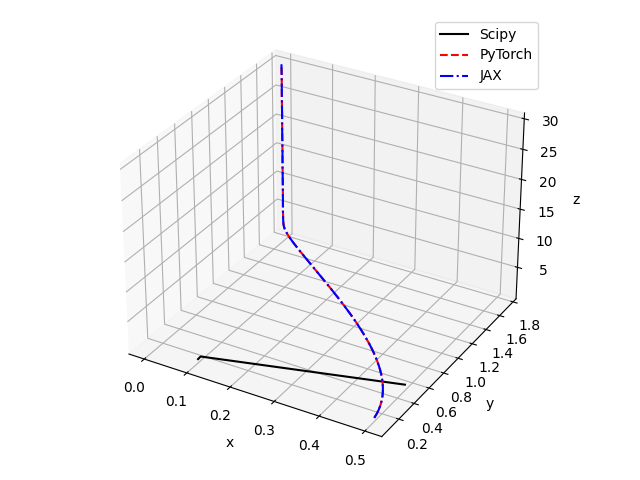
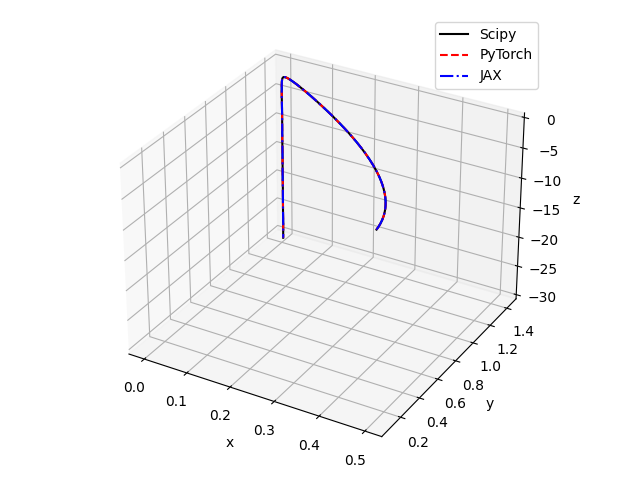
Now creating more figures from the guiding center

diff --git a/main_odes.py b/main_odes.py
@@ -6,7 +6,7 @@ import matplotlib.pyplot as plt
 from solver import solve_with_scipy, solve_with_pytorch, solve_with_jax
 from jacobi import compute_jacobian_scipy, compute_jacobian_torch, compute_jacobian_jax
 from differences import compute_diff
-from params_and_model import initial_conditions, tmin, tmax, nt, a_initial, model
+from params_and_model import initial_conditions, tmin, tmax, nt, a_initial, model, iota, vpar_sign, Lambda
 # import torch
 # torch.set_default_dtype(torch.float64)
 from jax.config import config
@@ -32,21 +32,19 @@ def main(results_path='results'):
 
     t = np.linspace(tmin, tmax, nt)
 
-    plt.figure()
-    for w_i, label, ls in zip(w, labels, label_styles):
-        for i, func in enumerate(functions):
-            if label == 'Scipy':
-                plt.plot(t, w_i[:, i], ls[0], label=f'{label} {func}')
-            elif label == 'PyTorch':
+    for i, func in enumerate(functions):
+        plt.figure()
+        for w_i, label, ls in zip(w, labels, label_styles):
+            if label == 'PyTorch':
                 plt.plot(t, w_i[:, i].detach().numpy(), ls[0], label=f'{label} {func}')
             else:
                 plt.plot(t, w_i[:, i], ls[0], label=f'{label} {func}')
-    plt.xlabel('Time')
-    plt.ylabel('Solution Value')
-    plt.title('ODE Solutions')
-    plt.legend()
-    plt.tight_layout()
-    plt.savefig(os.path.join(results_path, f'initial_solution_timetrace_{model}.png'))
+        plt.xlabel('Time')
+        plt.ylabel(f'{func}')
+        plt.title('ODE Solutions')
+        plt.legend()
+        plt.tight_layout()
+        plt.savefig(os.path.join(results_path, f'initial_solution_timetrace_{model}_{func}.png'))
 
     plt.figure()
     for Jacobian_i, label, ls in zip(Jacobian, labels, label_styles):
@@ -69,20 +67,75 @@ def main(results_path='results'):
     plt.savefig(os.path.join(results_path, f'time_solveJacobian_{model}.png'))
 
     fig = plt.figure()
-    ax = fig.add_subplot(111, projection='3d')
-    for w_i, label, ls in zip(w, labels, label_styles):
-        if label == 'Scipy':
-            ax.plot(w_i[0], w_i[1], w_i[2], ls[0], label=f'{label}')
-        elif label == 'PyTorch':
-            ax.plot(w_i[:, 0].detach().numpy(), w_i[:, 1].detach().numpy(), w_i[:, 2].detach().numpy(), ls[0], label=f'{label}')
-        else:
-            ax.plot(w_i[:, 0], w_i[:, 1], w_i[:, 2], ls[0], label=f'{label}')
-    ax.set_xlabel(variables[0])
-    ax.set_ylabel(variables[1])
-    ax.set_zlabel(variables[2])
-    plt.legend()
-    plt.tight_layout()
-    plt.savefig(os.path.join(results_path, f'initial_solution_3D_{model}.png'))
+    if model == 'lorenz':
+        ax = fig.add_subplot(111, projection='3d')
+        for w_i, label, ls in zip(w, labels, label_styles):
+            if label == 'PyTorch':
+                ax.plot(w_i[:, 0].detach().numpy(), w_i[:, 1].detach().numpy(), w_i[:, 2].detach().numpy(), ls[0], label=f'{label}')
+            else:
+                ax.plot(w_i[:, 0], w_i[:, 1], w_i[:, 2], ls[0], label=f'{label}')
+        ax.set_xlabel(variables[0])
+        ax.set_ylabel(variables[1])
+        ax.set_zlabel(variables[2])
+        plt.legend()
+        plt.tight_layout()
+        plt.savefig(os.path.join(results_path, f'initial_solution_3D_{model}.png'))
+    elif model == 'guiding-center':
+        plt.figure()
+        for w_i, label, ls in zip(w, labels, label_styles):
+            if label == 'PyTorch':
+                alpha = w_i[:, 1].detach().numpy()-iota*w_i[:, 2].detach().numpy()
+                x = w_i[:, 0].detach().numpy()
+            else:
+                alpha = w_i[:, 1]-iota*w_i[:, 2]
+                x = w_i[:, 0]
+            plt.plot(np.sqrt(x)*np.cos(alpha), np.sqrt(x)*np.sin(alpha), ls[0], label=f'{label} {func}')
+        plt.xlabel(f'sqrt(psi)*cos(alpha)')
+        plt.ylabel(f'sqrt(psi)*sin(alpha)')
+        plt.title('ODE Solutions')
+        plt.legend()
+        plt.tight_layout()
+        plt.savefig(os.path.join(results_path, f'initial_solution_2D_{model}.png'))
+
+        plt.figure()
+        for w_i, label, ls in zip(w, labels, label_styles):
+            if label == 'PyTorch':
+                x = w_i[:, 0].detach().numpy()
+                y = w_i[:, 1].detach().numpy()
+                z = w_i[:, 2].detach().numpy()
+            else:
+                x = w_i[:, 0]
+                y = w_i[:, 1]
+                z = w_i[:, 2]
+            B_val = a_initial[0] + a_initial[1] * np.sqrt(x) * np.cos(y) + a_initial[2] * np.sin(z)
+            v_parallel = vpar_sign*np.sqrt(1-Lambda*B_val)
+            plt.plot(t, v_parallel, ls[0], label=f'{label} {func}')
+        plt.xlabel('Time')
+        plt.ylabel(f'v_parallel')
+        plt.title('ODE Solutions')
+        plt.legend()
+        plt.tight_layout()
+        plt.savefig(os.path.join(results_path, f'initial_solution_vparallel_{model}.png'))
+
+        plt.figure()
+        for w_i, label, ls in zip(w, labels, label_styles):
+            if label == 'PyTorch':
+                x = w_i[:, 0].detach().numpy()
+                y = w_i[:, 1].detach().numpy()
+                z = w_i[:, 2].detach().numpy()
+            else:
+                x = w_i[:, 0]
+                y = w_i[:, 1]
+                z = w_i[:, 2]
+            B_val = a_initial[0] + a_initial[1] * np.sqrt(x) * np.cos(y) + a_initial[2] * np.sin(z)
+            plt.plot(t, B_val, ls[0], label=f'{label} {func}')
+        plt.xlabel('Time')
+        plt.ylabel(f'B')
+        plt.title('ODE Solutions')
+        plt.legend()
+        plt.tight_layout()
+        plt.savefig(os.path.join(results_path, f'initial_solution_B_{model}.png'))
+
 
     print(f'All plots saved to results folder {results_path}.')
 

diff --git a/params_and_model.py b/params_and_model.py
@@ -18,10 +18,14 @@ if model == 'lorenz':
     learning_rate_torch = 1.1
     learning_rate_jax = 0.2
 elif model == 'guiding-center':
-    initial_conditions = [0.5, 0.1, 0.1]
-    a_initial = [1.0, 0.1, 0.01]  # B0, B1c, alpha
+    initial_conditions = [0.7, 0.1, 0.1]
+    a_initial = [1.0, 0.2, 0.01]  # B0, B1c, B01s
+    vpar_sign = 1
+    Lambda = 0.8
+    iota = 0.41
+    G = 2*np.pi
     tmin = 0
-    tmax = 200
+    tmax = 20
     nt_per_time_unit = 10
     n_steps_to_compute_loss = 30
     x_target = initial_conditions[0]
@@ -43,22 +47,18 @@ n_steps_to_compute_loss = np.min([n_steps_to_compute_loss, nt])
 if model == 'guiding-center':
     ## Guiding-center equations for x=psi, y=theta, z=phi
     # Define the system of equations
-    Lambda = 0.1
-    iota = 0.41
-    G = 2*np.pi
     def B(a, x, y, z):
-        return a[0] + a[1] * x * jnp.cos(y) + a[2] * jnp.sin(z)
+        return a[0] + a[1] * jnp.sqrt(x) * jnp.cos(y) + a[2] * jnp.sin(z)
     
     def dBdx(a, x, y, z):
-        return a[1] * jnp.cos(y)
+        return a[1] * jnp.cos(y) / (2 * jnp.sqrt(x))
     
     def dBdy(a, x, y, z):
-        return -a[1] * x * jnp.sin(y)
+        return -a[1] * jnp.sqrt(x) * jnp.sin(y)
 
     def system(w, t, a):
         x, y, z = w
 
-        vpar_sign = 1
         B_val = B(a, x, y, z)
         dBdx_val = dBdx(a,x,y,z)
         dBdy_val = dBdy(a,x,y,z)
@@ -77,10 +77,9 @@ if model == 'guiding-center':
         def forward(self, t, w):
             x, y, z = w[..., 0], w[..., 1], w[..., 2]
             
-            vpar_sign = 1
-            B_val = self.a[0] + self.a[1] * x * torch.cos(y) + self.a[2] * torch.sin(z)
-            dBdx_val = self.a[1] * torch.cos(y)
-            dBdy_val = -self.a[1] * x * torch.sin(y)
+            B_val = self.a[0] + self.a[1] * torch.sqrt(x) * torch.cos(y) + self.a[2] * torch.sin(z)
+            dBdx_val = self.a[1] * torch.cos(y) / (2 * torch.sqrt(x))
+            dBdy_val = -self.a[1] * torch.sqrt(x) * torch.sin(y)
 
             v_parallel = vpar_sign*torch.sqrt(1-Lambda*B_val)
             dxdt =-(2*Lambda-B_val)/(2*Lambda*B_val)*dBdy_val
